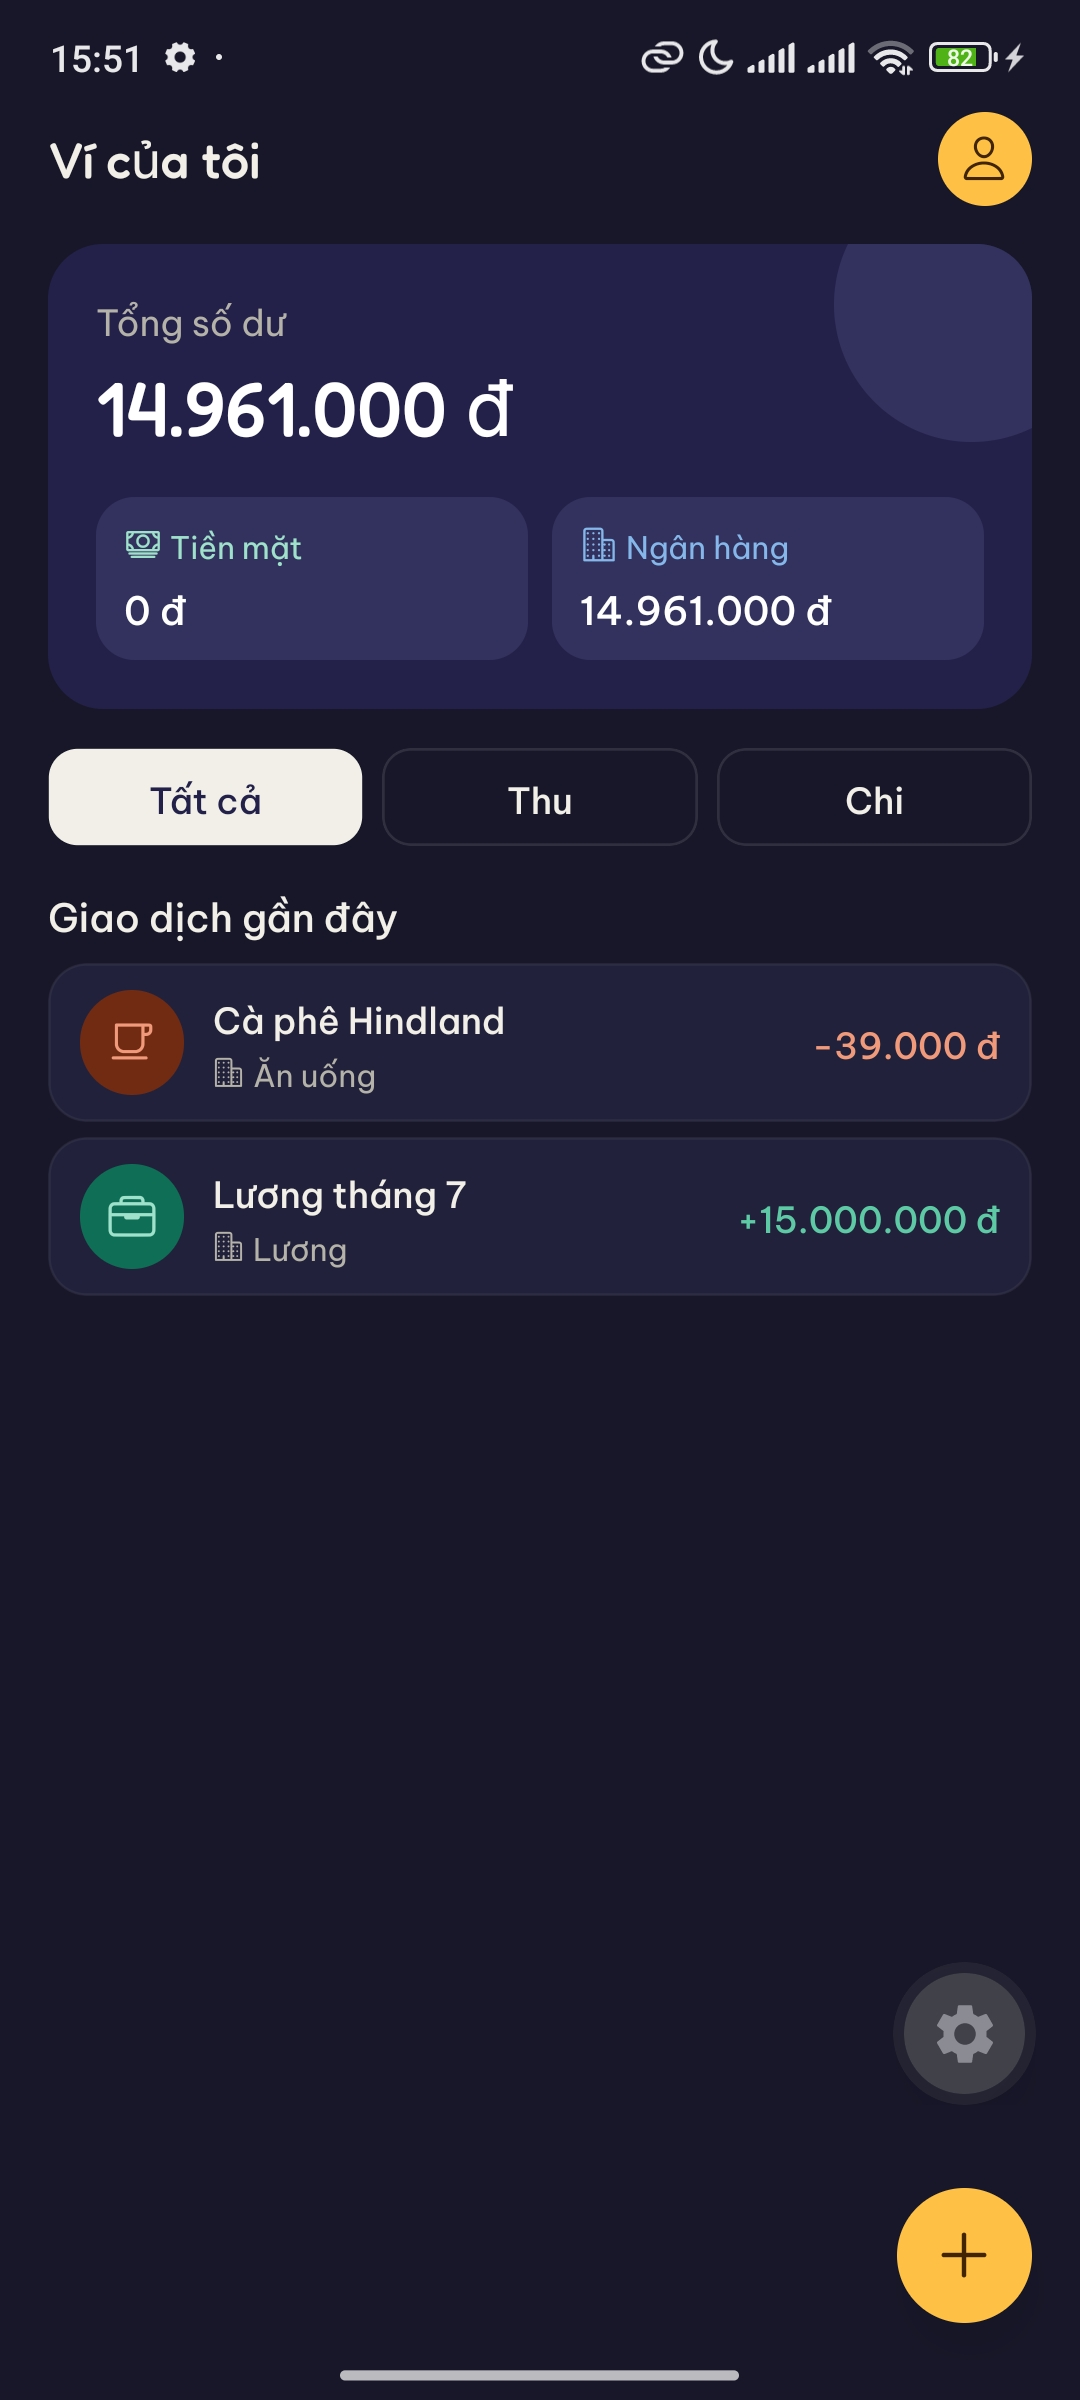
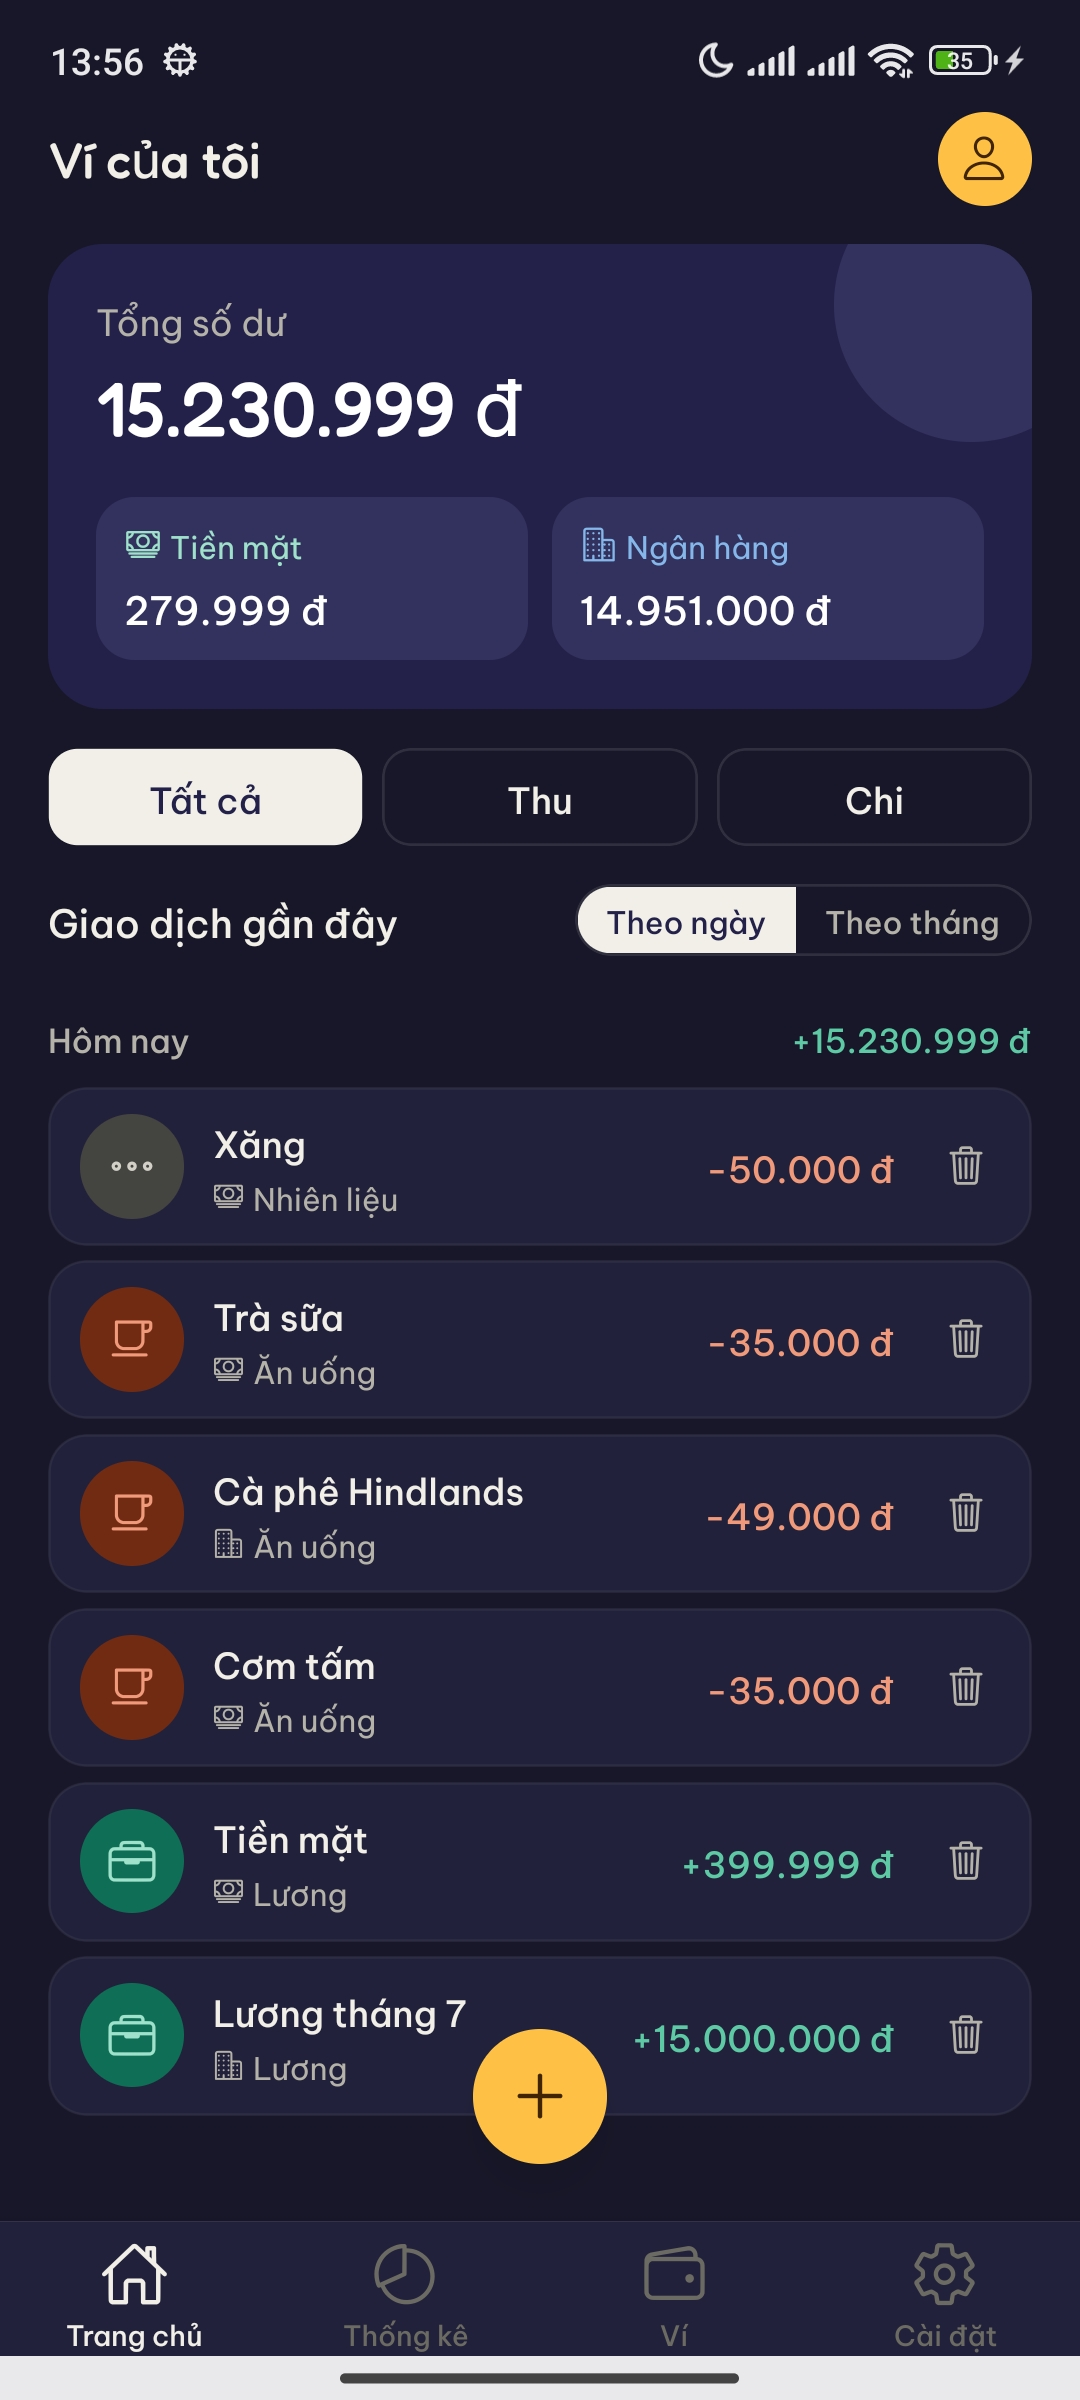
Add more screenshot images and fix some bug.

diff --git a/src/utils/groupTransactions.ts b/src/utils/groupTransactions.ts
@@ -10,7 +10,11 @@ export interface TransactionGroup {
 }
 
 function isSameDay(a: Date, b: Date) {
-  return a.getDate() === b.getDate() && a.getMonth() === b.getMonth() && a.getFullYear() === b.getFullYear();
+  return (
+    a.getDate() === b.getDate() &&
+    a.getMonth() === b.getMonth() &&
+    a.getFullYear() === b.getFullYear()
+  );
 }
 
 function formatDayLabel(date: Date): string {
@@ -20,33 +24,48 @@ function formatDayLabel(date: Date): string {
 
   if (isSameDay(date, today)) return "Hôm nay";
   if (isSameDay(date, yesterday)) return "Hôm qua";
-  return date.toLocaleDateString("vi-VN", { day: "2-digit", month: "2-digit", year: "numeric" });
+  return date.toLocaleDateString("vi-VN", {
+    day: "2-digit",
+    month: "2-digit",
+    year: "numeric",
+  });
 }
 
 function formatMonthLabel(date: Date): string {
   return `Tháng ${date.getMonth() + 1}, ${date.getFullYear()}`;
 }
 
-export function groupTransactions(transactions: Transaction[], mode: GroupMode): TransactionGroup[] {
+export function groupTransactions(
+  transactions: Transaction[],
+  mode: GroupMode,
+): TransactionGroup[] {
   const groups = new Map<string, Transaction[]>();
 
   for (const t of transactions) {
     const date = new Date(t.date);
-    const key =
-      mode === "day"
-        ? date.toISOString().slice(0, 10)
-        : `${date.getFullYear()}-${String(date.getMonth() + 1).padStart(2, "0")}`;
+
+    const year = date.getFullYear();
+    const month = String(date.getMonth() + 1).padStart(2, "0");
+    const day = String(date.getDate()).padStart(2, "0");
+
+    const key = mode === "day" ? `${year}-${month}-${day}` : `${year}-${month}`;
 
     if (!groups.has(key)) groups.set(key, []);
     groups.get(key)!.push(t);
   }
 
   return Array.from(groups.entries())
-    .sort((a, b) => (a[0] < b[0] ? 1 : -1)) // mới nhất lên trước
+    .sort((a, b) => (a[0] < b[0] ? 1 : -1))
     .map(([key, data]) => {
       const sampleDate = new Date(data[0].date);
-      const label = mode === "day" ? formatDayLabel(sampleDate) : formatMonthLabel(sampleDate);
-      const total = data.reduce((sum, t) => sum + (t.type === "in" ? t.amount : -t.amount), 0);
+      const label =
+        mode === "day"
+          ? formatDayLabel(sampleDate)
+          : formatMonthLabel(sampleDate);
+      const total = data.reduce(
+        (sum, t) => sum + (t.type === "in" ? t.amount : -t.amount),
+        0,
+      );
       return { key, label, data, total };
     });
 }

diff --git a/README.md b/README.md
@@ -15,9 +15,13 @@
 
 ## 📱 Ảnh chụp màn hình
 
-| Trang chủ (Sáng)                                         | Trang chủ (Tối)                                        | Thêm giao dịch                                                     |
-| -------------------------------------------------------- | ------------------------------------------------------ | ------------------------------------------------------------------ |
-| ![Trang chủ sáng](./src/docs/screenshots/home-light.jpg) | ![Trang chủ tối](./src/docs/screenshots/home-dark.jpg) | ![Thêm giao dịch](./src/docs/screenshots/add-transaction-dark.jpg) |
+| Trang chủ (Sáng)                                         | Trang chủ (Tối)                                        | Thêm giao dịch                                                |
+| -------------------------------------------------------- | ------------------------------------------------------ | ------------------------------------------------------------- |
+| ![Trang chủ sáng](./src/docs/screenshots/home-light.jpg) | ![Trang chủ tối](./src/docs/screenshots/home-dark.jpg) | ![Thêm giao dịch](./src/docs/screenshots/add-transaction.jpg) |
+
+| Thống kê                                      | Ví                                       | Setting                                        |
+| --------------------------------------------- | ---------------------------------------- | ---------------------------------------------- |
+| ![Thống kê](./src/docs/screenshots/stats.jpg) | ![Ví](./src/docs/screenshots/wallet.jpg) | ![Setting](./src/docs/screenshots/setting.jpg) |
 
 ---
 
@@ -103,8 +107,8 @@ src/
 
 ## 🗺 Roadmap
 
-- [ ] Màn **Thống kê** — biểu đồ chi tiêu theo danh mục / theo tháng
-- [ ] Chỉnh sửa giao dịch đã tạo (hiện chỉ thêm mới hoặc xoá)
+- [x] Màn **Thống kê** — biểu đồ chi tiêu theo danh mục / theo tháng
+- [x] Chỉnh sửa giao dịch đã tạo (đã có chức năng thêm mới, sửa hoặc xoá)
 - [ ] Đặt hạn mức chi tiêu (budget) theo danh mục
 - [x] Xuất/nhập dữ liệu dạng JSON
 - [ ] Xuất báo cáo thu chi (CSV/PDF)
